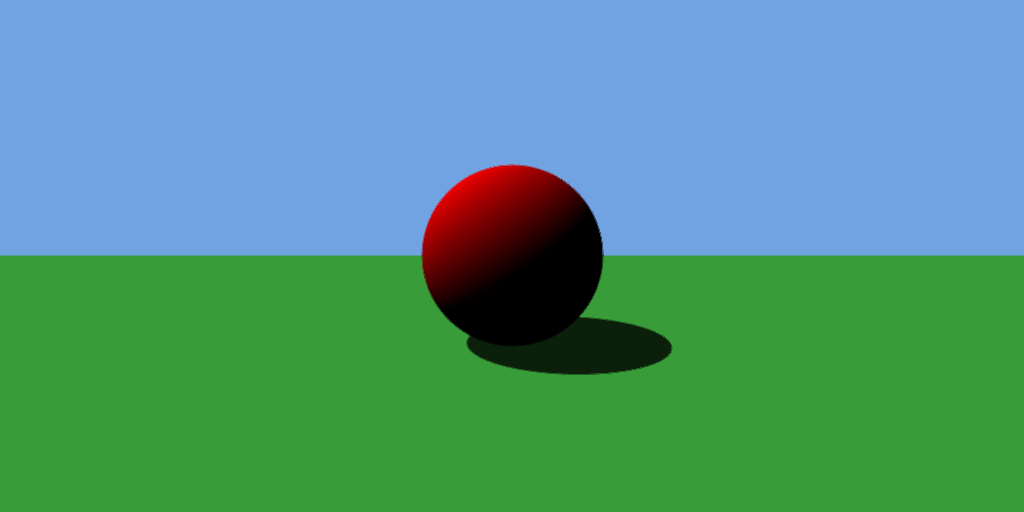
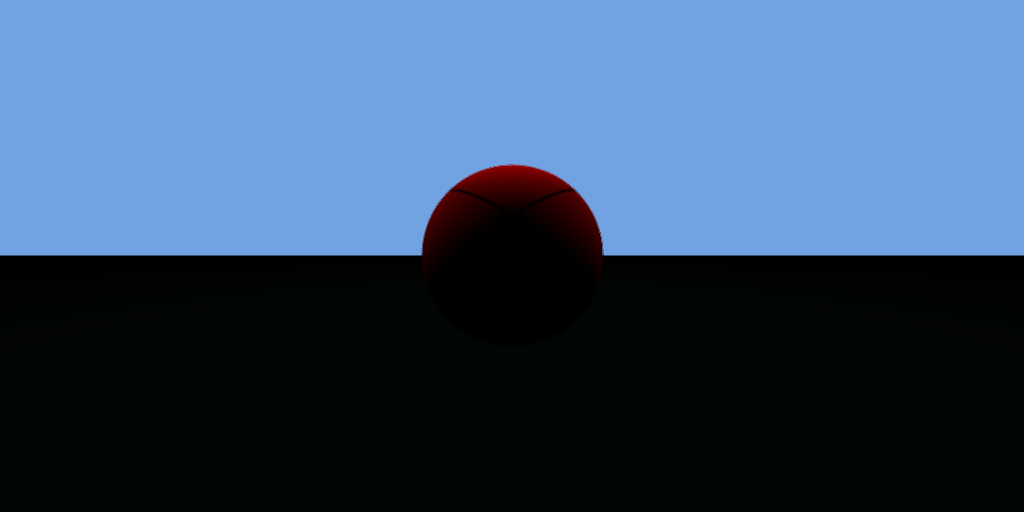
Fri Mar 21 12:46:04 CET 2025

diff --git a/src/synthese/Application.cpp b/src/synthese/Application.cpp
@@ -16,12 +16,13 @@
 Application::Application()
     : camera(0.0f, 0.0f, 0.0f) {
     /* ---- Lights ---- */
-    lights.emplace_back(normalize(Vector(-4.0f, 6.0f, 1.0f)), Color(1.0f, 1.0f, 1.0f));
-    // lights.emplace_back(normalize(Vector(4.0f, 6.0f, -1.0f)), Color(1.0f, 1.0f, 1.0f));
+    lights.emplace_back(Point(-4.0f, 6.0f, -4.0f), Color(1.0f, 1.0f, 1.0f));
+    lights.emplace_back(Point(4.0f, 6.0f, -4.0f), Color(1.0f, 1.0f, 1.0f));
 
     /* ---- Objects ---- */
     objects.push_back(new Plane(Color(0.267f, 0.749f, 0.267f), Point(0.0f, -1.0f, 0.0f), Vector(0.0f, 1.0f, 0.0f)));
     objects.push_back(new Sphere(Color(1.0f, 0.0f, 0.0f), Point(0.0f, 0.0f, -3.0f), 1.0f));
+    // for(const Light& light : lights) { objects.push_back(new Sphere(light.color, light.position, 0.2f)); }
 }
 
 Application::~Application() {
@@ -112,11 +113,13 @@ Color Application::processPixel(Point extremity) const {
     float shadows = 1.0f;
 
     for(const Light& light : lights) {
+        Ray lightRay(epsilonPoint, normalize(Vector(epsilonPoint, light.position)));
+
         // Lighting
-        lightColor += light.color * std::max(dot(hit.normal, light.direction), 0.0f);
+        lightColor += light.color * std::max(dot(hit.normal, lightRay.direction), 0.0f);
 
         // Shadows
-        Hit closest = getClosestHit(Ray(epsilonPoint, light.direction));
+        Hit closest = getClosestHit(lightRay);
         if(closest.object != nullptr && closest.object != hit.object) {
             shadows *= 0.2f;
         }

diff --git a/src/synthese/Light.cpp b/src/synthese/Light.cpp
@@ -5,6 +5,6 @@
 
 #include "synthese/Light.hpp"
 
-Light::Light(const Vector& direction, const Color& color) : direction(direction), color(color) { }
+Light::Light(const Point& position, const Color& color) : position(position), color(color) { }
 
-Light::Light(const Vector& direction) : direction(direction), color(1.0f, 1.0f, 1.0f) { }
+Light::Light(const Point& position) : position(position), color(1.0f, 1.0f, 1.0f) { }

diff --git a/include/synthese/Light.hpp b/include/synthese/Light.hpp
@@ -13,9 +13,9 @@
  * @brief
  */
 struct Light {
-    Light(const Vector& direction, const Color& color);
-    Light(const Vector& direction);
+    Light(const Point& position, const Color& color);
+    Light(const Point& position);
 
-    Vector direction;
+    Point position;
     Color color;
 };
